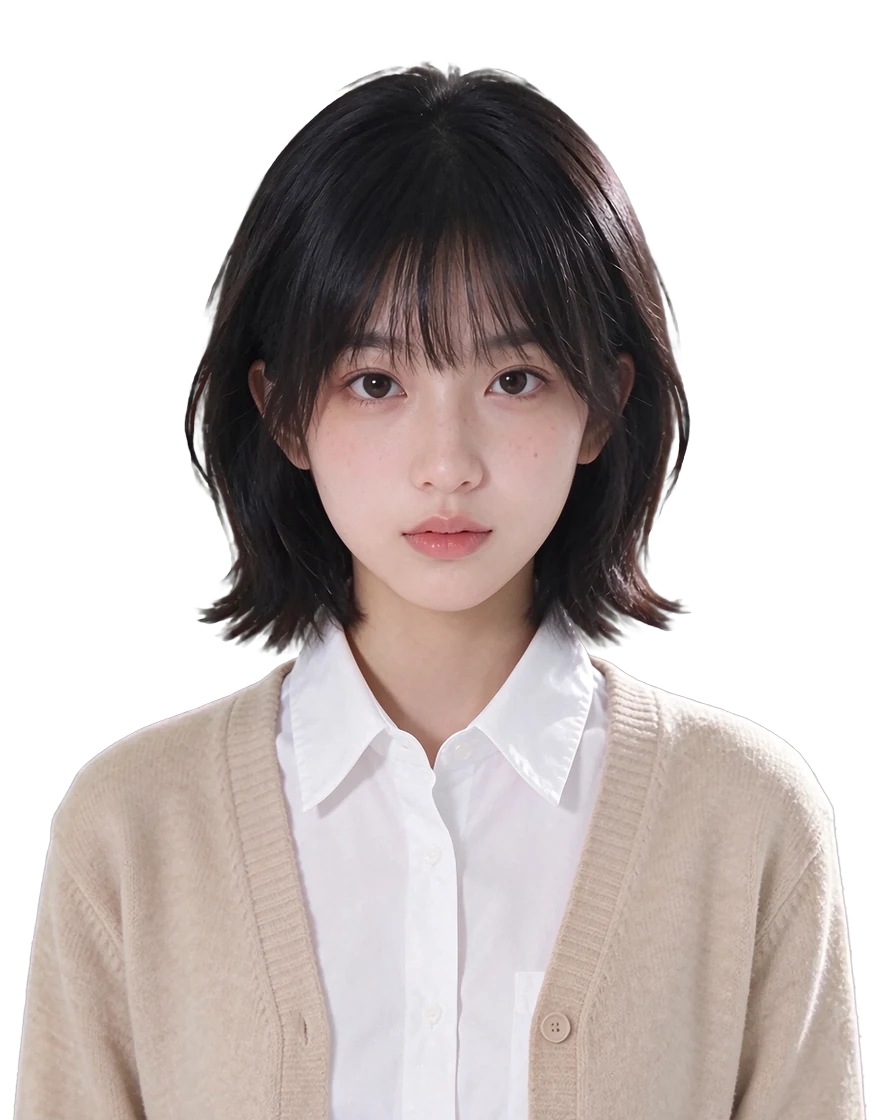
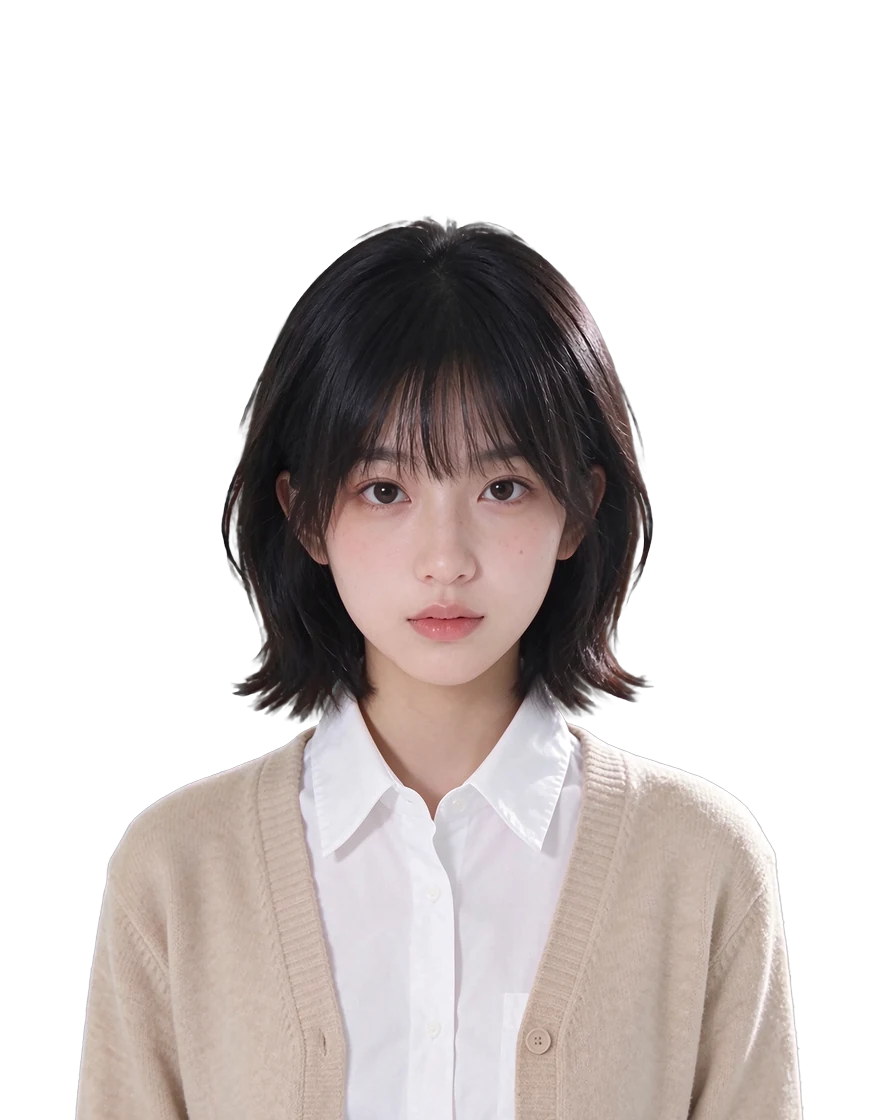
男生立绘

diff --git a/css/style.css b/css/style.css
@@ -468,6 +468,21 @@ a:hover {
   background-repeat: no-repeat;
   background-size: contain;
   filter: drop-shadow(0 20px 30px rgba(26, 44, 78, 0.35));
+  /* 立绘左右边缘柔和淡出：素材里身体本就画到画面外，硬边会像被裁掉 */
+  -webkit-mask-image: linear-gradient(
+    to right,
+    rgba(0, 0, 0, 0) 0,
+    #000 56px,
+    #000 calc(100% - 56px),
+    rgba(0, 0, 0, 0) 100%
+  );
+  mask-image: linear-gradient(
+    to right,
+    rgba(0, 0, 0, 0) 0,
+    #000 56px,
+    #000 calc(100% - 56px),
+    rgba(0, 0, 0, 0) 100%
+  );
 }
 
 .vn-sprite__frame {
@@ -2997,3 +3012,4 @@ a:hover {
 @media (max-width: 560px) {
   .vn-slot-grid { grid-template-columns: 1fr; }
 }
+

diff --git a/assets/README.md b/assets/README.md
@@ -98,7 +98,10 @@ assets/
 - 透明底（已抠图），竖版半身像
 - **统一画布比例 11:14**（内部 1100×1400，输出 880×1120 webp），两张图必须同比例，
   否则游戏里一高一矮
-- 人物**底边贴齐画布底边**、水平居中；头顶留约 2% 空白
+- 人物**底边贴齐画布底边**、水平居中；统一按**内容高度 906px** 缩放（对应 880 宽刚好放下最宽的男生），
+  顶部约留 214px（19%）余量；**左右两侧不裁切**
+- 内容贴到画布左右边缘的立绘（男生素材本身在照片里就被切了肩），左右各做 **120px 平滑渐隐**，
+  避免在画面上出现「一刀切」的直边
 - 单张 ≤ 300KB（当前 49~95KB）
 - 现在用的是你提供的已抠图版本（无白边）；如果给的是白底原图，我再走下面的处理流程
 
